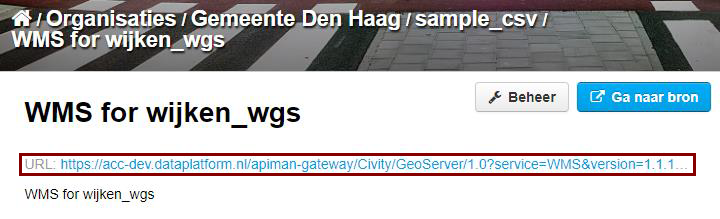
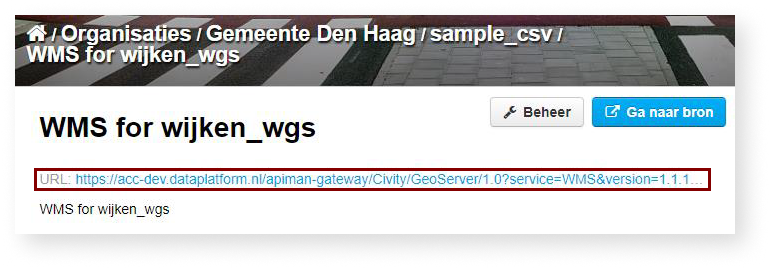
altered images for consistency and CSS

diff --git a/Dataplatform/dataplatform_USERS_PersonalProfile.md b/Dataplatform/dataplatform_USERS_PersonalProfile.md
@@ -5,13 +5,17 @@ sidebar_label: Personal Profile
 ---
 Your user profile contains imformation about your personal and account details; you can only see your user profile while you're logged in
 
-You may find your user profile by clicking on your name at the top of the page.
 
 In this page you will see what datasets you own, in addition to your Activity Stream, and your personal information. Clicking on the title of a dataset will redirect you to that dataset. 
 
 ## Account Information
 
 > Your API key is private and unique, do not share this with anybody!
+
+You may find your user profile by clicking on your name at the top of the page.
+
+<img class="imageStyle" src="/docs/assets/Dataplatform/PersonalProfile/dataplatform_USER_datacatalogue_profileButton.png" alt="image: My Profile" target="_blank"/> 
+
 
 The personal details displayed on the Account Information page, consists of the following: 
 * **User information**
@@ -25,11 +29,11 @@ The personal details displayed on the Account Information page, consists of the 
 
 ## Edit Personal Settings
 To adjust your user settings and details, select the ⚙ icon (settings cog) at the top right corner of the screen. Note: your username cannot be changed.
-![SCREENCAST: settings cog](assets/Dataplatform/UserManagement/dataplatform_user_UserManagement_user_settings.png)
+
+<img class="imageStyle" src="/docs/assets/Dataplatform/PersonalProfile/dataplatform_user_UserManagement_user_settings.png" alt="image: My Profile - Edit" target="_blank"/> 
 
 Here you can change your password, adjust your name (which is displayed when you are logged in), change your email, and reset your API key when it has been compromised. You may also write a small bio in the *About* textfield. The *About* textfield accepts <a href="https://www.markdownguide.org/basic-syntax" target="_blank" rel="noreferrer noopener">Markdown Formatting</a>.
 
-![imageStyle: change personal user details](assets/Dataplatform/UserManagement/dataplatform_user_UserManagement_ManageUser_EditUser.png)
 
 ##  Datacatalogue 
 
@@ -39,7 +43,7 @@ Datacatalogue allows you to register, manage and unlock all data for your users 
 
 Datacatalogue has a unique person profile page, where you may view your **Awaiting Action**, **News Feed**, and **Group Mailbox** pages, in addition to customizing your user preferences and notifications. Your user preferences may be customized with: Tags, Type, and Theme.
 
-<img class="imageStyle" src="/docs/assets/Dataplatform/PersonalProfile/dataplatform_USER_datacatalogue_profile.png" target="_blank"/> 
+<img class="imageStyle" src="/docs/assets/Dataplatform/PersonalProfile/datacatalogus_personal_page.png" target="_blank"/> 
 
 ### Notifications
 

diff --git a/Dataplatform/dataplatform_DATASETS_AddingDatasets.md b/Dataplatform/dataplatform_DATASETS_AddingDatasets.md
@@ -6,6 +6,9 @@ sidebar_label: Adding Datasets
 
 Adding a dataset represents the first step in adding a new data entry. The second step is [adding a datasource](datasets_AddingDatasources)
 
+<img class="imageStyle" src="/docs/assets/Dataplatform/AddingDatasets/dataplatform_user_addingDatasets_Overview.png" alt="image: Adding Datasets">
+
+
 ## Title
 > The title you choose will be rendered as part of the dataset’s URL. The URL is generated in the following template: [https://www.dataplatform.nl/data/YOUR_TITLE](#blank).  When the title is generated into a URL, capital letters will be converted to small letters and spaces will be replaced by hyphens ( - ).
 
@@ -20,7 +23,7 @@ An example using our naming guideline:
 Sport - Sport Events - Utrecht 2019 - Version 1
 ```
 
-<img class="imageStyle" src="/docs/assets/Dataplatform/AddingDatasets/dataplatform_user_addingDatasets_AddTitle.gif" alt="SCREENCAST: adding a title">
+<img class="imageStyle shadowing" src="/docs/assets/Dataplatform/AddingDatasets/dataplatform_user_addingDatasets_AddTitle.gif" alt="SCREENCAST: adding a title">
 
 ## Description
 This field represents an overview of your dataset. Your description should answer the following questions: 
@@ -60,7 +63,7 @@ CKAN Dataplatform has two types of visibility options: private and public. Datas
 
 The visibility status of your dataset is indicated by a label in the top-right corner.
 
-![imageStyle: prive indicator](assets/Dataplatform/AddingDatasets/dataplatform_user_addingDatasets_priveIndicator.png)
+<img class="imageStyle" src="/docs/assets/Dataplatform/AddingDatasets/dataplatform_user_addingDatasets_priveIndicator.png" alt="image: Dataset - Private Flag">
 
 
 ### Searchability / Zichtbaarheid Dataplatform 
@@ -96,7 +99,7 @@ Tags influence search terms. Utilizing tags will make your datasets easier to fi
 If your intended tag does not match any existing entries, complete the entire word, then hit the *return* key. Once your new tag has been entered, it is now possible to use this as an existing tag.
 If you select the wrong tag, you may remove it by click on the cross “X” in front of the word.
 
-<img class="imageStyle" src="/docs/assets/Dataplatform/AddingDatasets/dataplatform_user_addingDatasets_AddTags.gif" alt="SCREENCAST: adding tags">
+<img class="imageStyle shadowing" src="/docs/assets/Dataplatform/AddingDatasets/dataplatform_user_addingDatasets_AddTags.gif" alt="SCREENCAST: adding tags">
 
 
 

diff --git a/Dataplatform/dataplatform_DATASETS_SearchingDataset.md b/Dataplatform/dataplatform_DATASETS_SearchingDataset.md
@@ -3,11 +3,18 @@ id: datasets_SearchDatasets
 title: Searching Datasets
 sidebar_label: Searching Datasets
 ---
-> Searching is case sensitive, and only indexes based on complete words.
 
 Searching allows you to quickly find relevant information for datasets, organizations, theme, and groups. You do not need to be logged in to saerch. Searching for datasets can be conducted via the searchbar on the front page, in addition to the searchbar on the dataset page; popular tags are displayed underneath the search bar.
 
-![imageStyle: front page search](assets/Dataplatform/SearchDatasets/dataplatform_user_SearchDatasets_frontPageSearch.png)
+## Searching for Data
+
+A general search field is found on the homepage of Dataplatform.
+
+> Searching is case sensitive, and only indexes based on complete words.
+> Linking words with "+" in your search will yeild better results.
+> For example, `"Utrecht+Events+2019"` is a more effective search than `"Utrecht Events 2019"`.
+
+<img class="imageStyle" src="/docs/assets/Dataplatform/SearchDatasets/dataplatform_user_SearchDatasets_frontPageSearch.png" alt="image: Dataplatform Front Page">
 
 You are able to search for the following cases:
 * Dataset titles
@@ -16,14 +23,12 @@ You are able to search for the following cases:
 * Labels
 * Keywords
 
-> Linking words together with "+" in your search will yeild better results.
 
-For example, `"Utrecht+Events+2019"` is a more effective search than `"Utrecht Events 2019"`.
 
 ## Searching for Organizations
 A separate searchbar for finding organizations is located on the organization page.
 
-![imageStyle: organization searchbar](assets/Dataplatform/SearchDatasets/dataplatform_user_SearchDatasets_OrganizationSearch.png)
+<img class="imageStyle" src="/docs/assets/Dataplatform/SearchDatasets/dataplatform_user_SearchDatasets_OrganizationSearch.png" alt="image: Organization Search">
 
 Here you may search for the following cases:
 * Name of an organization
@@ -31,8 +36,6 @@ Here you may search for the following cases:
 
 ## Searching for Themes and Groups
 A separate searchbar for themes and groups is located on the group page.
-
-![imageStyle: theme and group searchbar](assets/Dataplatform/SearchDatasets/dataplatform_user_SearchDatasets_groupsThemes.png)
 
 Here you may search for the following cases:
 * Name of a group or theme

diff --git a/Dataplatform/dataplatform_USERS_AddingUsers.md b/Dataplatform/dataplatform_USERS_AddingUsers.md
@@ -11,13 +11,15 @@ Only organization administrators may create new users
 
 From the organization's dataset page, select the "Manage" button, followed by the "Members" tab. Select the “Add Member” button.
 
+<img class="imageStyle" src="/docs/assets/Dataplatform/UserManagement/dataplatform_user_UserManagement_ManageUser_BrowserShell.png" target="_blank" alt="image: Organization screen - Manage Button"/>
+<img class="imageStyle" src="/docs/assets/Dataplatform/UserManagement/dataplatform_user_UserManagement_ManageUser_AddMember.png" target="_blank" alt="image: Organization screen - Manage Button"/>
+
 Existing users are users who are already members in another organization. New users are users who are not members of any existing organization. To initiate setup of a new user, simply fill in their email address.
 
-<img class="imageStyle" src="/docs/assets/Dataplatform/UserManagement/dataplatform_user_UserManagement_ManageUser_AddMemberRole.png" target="_blank" alt="imageStyle: add member screen"/>
+<img class="imageStyle" src="/docs/assets/Dataplatform/UserManagement/dataplatform_user_UserManagement_ManageUser_AddMemberRole.png" target="_blank" alt="image: Organization screen - Manage Button"/>
 
 When you click “Add Member,” the new member will receive an automated email to the address entered. The username and user number will be generated from this email adress.
 
 The new user's state will stay as "pending," until they confirm their email address.
 
-<!-- <img class="imageStyle" src="/docs/assets/Dataplatform/UserManagement/dataplatform_user_UserManagement_ManageUser_Pending.png" target="_blank" alt="imageStyle: member status pending screen"/> -->
-<img class="imageStyle" src="/docs/assets/Dataplatform/UserManagement/dataplatform_user_UserManagement_ManageUser_Pending_ALT.png" target="_blank" alt="imageStyle: member status pending screen"/>
+<img class="imageStyle" src="/docs/assets/Dataplatform/UserManagement/dataplatform_user_UserManagement_ManageUser_Pending_ALT.png" target="_blank" alt="image: member status pending screen"/>

diff --git a/template.md b/template.md
@@ -1,14 +1,14 @@
 ---
 id: template
-title: AUTO-GENERATED PAGE TITLE
-sidebar_label: template
+title: Template & Formatting
+sidebar_label: Template & Formatting
 ---
 
 This is where you describe what it is that you’ll accomplish on this page. 
 
-For information about changing the page Title (*"AUTO-GENERATE PAGE TITLE"* on this page), see: <a href="https://docusaurus.io/docs/en/doc-markdown#documents" target="_blank">Markdown Headers - Documents</a> ``` ```
+For information about changing the page Title (*"Template & Formatting"* on this page), see: <a href="https://docusaurus.io/docs/en/doc-markdown#documents" target="_blank">Markdown Headers - Documents</a>
 
-# Prerequisite
+## Prerequisite
 ```Text formated like this``` and
   
    
@@ -21,8 +21,8 @@ represents the input as typed; type what you see, in-order to generate the desir
 
 This will be the anchor heading for the page, or perhaps the first step in a series of processes. Directly underneath, you may add further information explaining what this heading/task is.
 
-### Subcategory Heading 1
-```### Subcategory Heading 1```
+### Subcategory Headings
+```### Subcategory Headings```
 
 This will be a subcategory heading of the “Main Category Heading.” These may breakdown features, sub-tasks, etc.
 
@@ -125,7 +125,7 @@ This will be a subcategory heading of the “Main Category Heading.” These may
     * class imageStyle applies:
     ```javascript
     .imageStyle {
-        margin: 20px;
+        margin: 20px 0;
         padding: 10px;
     }
     ```

diff --git a/Dataplatform/dataplatform_DATASETS_SortFilteringDataset.md b/Dataplatform/dataplatform_DATASETS_SortFilteringDataset.md
@@ -39,20 +39,20 @@ It is possible to filter results based on:
 ### Filtering Datasets by Multiple Items
 Filtering can be accomplished by the use of more than one filter.
 
-![imageStyle: filter by multiple items](assets/Dataplatform/FilteringDatasets/dataplatform_user_FilteringDataset_multiple.png)
+<img class="imageStyle" src="/docs/assets/Dataplatform/FilteringDatasets/dataplatform_user_FilteringDataset_multiple.png" alt="image: Filtering Datasets">
 
 
-### Removing Filters
+### Remove Filters
 Filters may be removed from a search, one-by-one, by clicking on the cross behind the selected filter.
 
 You may remove filters either on the left-hand side of the page, in the filtering area, or at the top of the page.
 
-![imageStyle: removing filters](assets/Datapaltform/FilteringDatasets/dataplatform_user_FilteringDataset_remove.png)
+<img class="imageStyle" src="/docs/assets/Dataplatform/FilteringDatasets/dataplatform_user_FilteringDataset_remove.png" alt="image: Remove Filters">
 
 
 ### Fitlering Datasets on the Group / Theme Page
-Selecting a group has the same effect as filterin in the dataset list using the filter themes.
+Selecting a group has the same behaviour as filtering in the dataset list screen.
 
-![imageStyle: Filtering groups/themes page](assets/Dataplatform/FilteringDatasets/dataplatform_user_FilteringDataset_groupsthemespage.png)
+<img class="imageStyle" src="/docs/assets/Dataplatform/FilteringDatasets/dataplatform_user_FilteringDataset_groupsthemespage.png" alt="image: Filtering by groups">
 
 

diff --git a/Dataplatform/dataplatform_GEOSERVER_GeoserverIntegration.md b/Dataplatform/dataplatform_GEOSERVER_GeoserverIntegration.md
@@ -9,7 +9,7 @@ sidebar_label: Geoserver Integration
 ## Publishing OGC Data
 If the filetype is supported, a new button appears inside the dataset page, named "**Publiceer OGC**". Pressing this button will generate the metadata of our resource/file, recognize the geometry field and the projection system. 
 
-<img class="imageStyle" src="/docs/assets/Dataplatform/GeoServer/dataplatform_GEOSERVER_publiceerButton.png" alt="imageStyle: Geoserver PubliceerOGC button">
+<img class="imageStyle shadowing" src="/docs/assets/Dataplatform/GeoServer/dataplatform_GEOSERVER_publiceerButton.png" alt="imageStyle: Geoserver PubliceerOGC button">
 
 After pressing this button, a new page will popup including options about the geometry field that was recognized, the input projection system and the output projection system (SRID). These fields may be edited by the user. 
 
@@ -21,7 +21,7 @@ Geometry inside a csv file can be recognized in 3 forms:
 Additionally:
 * The projection system inside a csv can be recognized between ***RD New (EPSG: 28992)*** or ***WGS 84 (EPSG: 4326)***.
 
-<img class="imageStyle" src="/docs/assets/Dataplatform/GeoServer/dataplatform_GEOSERVER_OGCchecker.png" alt="imageStyle: OGC Checker pop-up">
+<img class="imageStyle shadowing" src="/docs/assets/Dataplatform/GeoServer/dataplatform_GEOSERVER_OGCchecker.png" alt="imageStyle: OGC Checker pop-up">
 
 The progress of publishing is shown in a toast notification, seen at the top of the page:
 

diff --git a/Dataplatform/dataplatform_USERS_LoginDashboard.md b/Dataplatform/dataplatform_USERS_LoginDashboard.md
@@ -22,7 +22,7 @@ The login button is located at the top of the page on the right side. Here you w
 
 ## Dashboard
 When you are logged in your name will appear at top of the page; you are directed to your dashboard. The dashboard allows you to view the latest datasets that you have previously worked on.
+<img class="imageStyle" src="/docs/assets/Dataplatform/UserManagement/dataplatform_user_UserManagement_MyDashboard.png" target="_blank" alt="image: My Dashboard"/>
 
 Clicking on “My Organization” will allow you to see the datasets owned by your organization(s). If you possess the correct credentials, you can then add, edit, or delete datasets.
-
-![imageStyle: overig; 22 datasets](assets/Dataplatform/UserManagement/dataplatform_user_UserManagement_MyOrganization.png)
+<img class="imageStyle" src="/docs/assets/Dataplatform/UserManagement/dataplatform_user_UserManagement_MyOrganization.png" target="_blank" alt="image: My Dashboard - My Organizations"/>

diff --git a/Dataplatform/dataplatform_USERS_EditingUsers.md b/Dataplatform/dataplatform_USERS_EditingUsers.md
@@ -7,11 +7,11 @@ sidebar_label: Editing Users
 
 From the organization's dataset page, select the "🔧 Manage" button, followed by the **Members** tab. 
 
-![SCREENCAST: NEW_click manage then members](assets/Dataplatform/UserManagement/dataplatform_user_UserManagement_ManageUser.png) 
+<img class="imageStyle" src="/docs/assets/Dataplatform/UserManagement/dataplatform_user_UserManagement_ManageUser_BrowserShell.png" target="_blank" alt="imageStyle: add member screen"/>
 
 In the **Members** tab, all of the organization's users are displayed. An administrator may edit a user's role by clicking on  "🔧" icon, next to their name.  
 
-<!-- <img class="imageStyle " src="/docs/assets/Dataplatform/DeletingUsers/dataplatform_user_DeletingUsers_deteleUser.png" target="_blank"/>  -->
+<img class="imageStyle " src="/docs/assets/Dataplatform/DeletingUsers/dataplatform_user_DeletingUsers_deteleUser.png" target="_blank"/> 
 
 ## Edit User settings 
 

diff --git a/Dataplatform/dataplatform_USERS_DeletingUsers.md b/Dataplatform/dataplatform_USERS_DeletingUsers.md
@@ -5,8 +5,8 @@ sidebar_label: Deleting Users
 ---
 >Administrators may delete users who are members of their organization  
 
-![SCREENCAST: NEW_click manage then members](assets/Dataplatform/UserManagement/dataplatform_user_UserManagement_ManageUser.png) 
 
 From the organization's dataset page, select the "🔧 Manage" button, followed by the **Members** tab. In the **Members** tab, all of the organization's users are displayed.  
 
 Administrators may remove users by clicking the red cross button, located at the end of each username.
+<img class="imageStyle" src="/docs/assets/Dataplatform/UserManagement/dataplatform_user_UserManagement_ManageUser_BrowserShell.png" target="_blank" alt="image: Organization screen - Manage Button"/>

diff --git a/Dataplatform/dataplatform_DATASETS_EditingDataset.md b/Dataplatform/dataplatform_DATASETS_EditingDataset.md
@@ -25,7 +25,7 @@ sidebar_label: Editing Datasets
 5. Drag-and-drop the order as you desire. 
 6. Select “Save Order” when finished.
 
-<img class="imageStyle" src="/docs/assets/Dataplatform/EditingDatasets/dataplatform_user_EditingDataset_Reorder.gif" alt="SCREENCAST: Re-order datasources">
+<img class="imageStyle shadowing" src="/docs/assets/Dataplatform/EditingDatasets/dataplatform_user_EditingDataset_Reorder.gif" alt="SCREENCAST: Re-order datasources">
 
 ## Adding Groups
 >A group is a thematic bundling of datasets. The full list of groups can be found <a href="https://data.overheid.nl/data/group" target="_blank" rel="noreferrer noopener">here</a>

diff --git a/Dataplatform/dataplatform_DATASETS_AddingDatasources.md b/Dataplatform/dataplatform_DATASETS_AddingDatasources.md
@@ -52,7 +52,7 @@ See <a href="#additional-details">Additional Details</a>
 
 Geo-Enabled datasources allow you to view your data as a set of coordinates on a map.
 
-<img class="imageStyle" src="/docs/assets/Dataplatform/AddingDatasources/dataplatform_DATASETS_AddingDatasoruces_geo-enable.png" alt="SCREENCAST: geo_enable">
+<!-- <img class="imageStyle" src="/docs/assets/Dataplatform/AddingDatasources/dataplatform_DATASETS_AddingDatasoruces_geo-enable.png" alt="SCREENCAST: geo_enable"> -->
 
 
 ## DataStore
